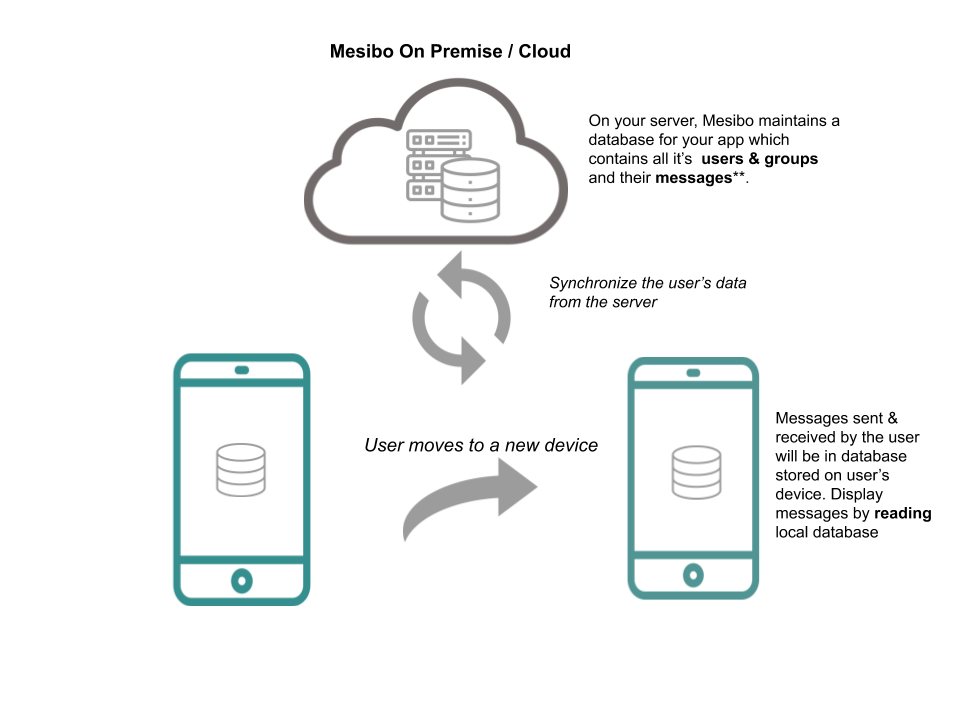
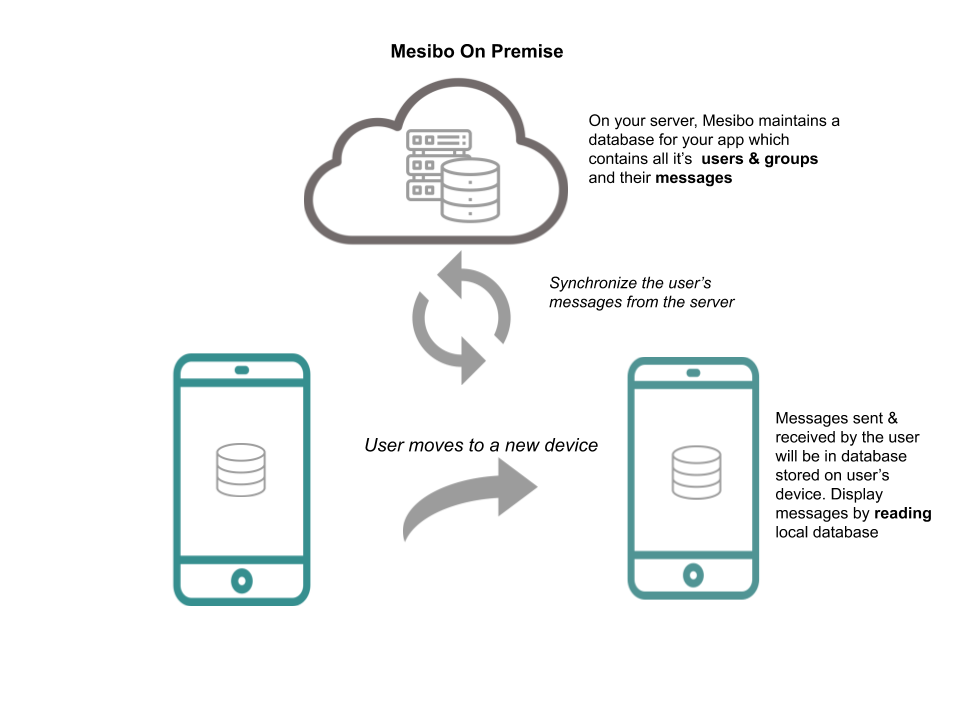
Update sync.md

Changed region(s): [[0.5625, 0.3667, 0.7812, 0.4278], [0.3438, 0.0611, 0.5938, 0.0917]]

diff --git a/synchronization.md b/synchronization.md
@@ -13,10 +13,11 @@ You MUST go through the following prerequisites before you read further.
 
 - Read the [First App]({{ '/documentation/tutorials/get-started/first-app/' | relative_url }}) Guide.
 - Read one of the Android, iOS, JS, etc of this tutorial.
-- Get familiar with [Reading APIs]({{ '/documentation/tutorials/get-started/reading-messages' | relative_url }})
+- Get familiar with [Read APIs]({{ '/documentation/tutorials/get-started/reading-messages' | relative_url }})
+- Run [Mesibo On-Premise](https://mesibo.com/on-premise). See [On-Premise Docs]({{ '/documentation/on-premise' | relative_url }}) for installation instructions and more.
 
 ## Multi-Device Synchronization 
-Mesibo stores the app data (messages & call logs, etc) on a local database on the user's device. To display messages to the user, you need to read messages(Using [Read APIs]({{ '/documentation/tutorials/get-started/reading-messages/#how-to-read-messages' | relative_url }})) from this local database. Now, if the user moves to a new device you will have a brand new database. Your user cannot view the old messages by reading the new database. The messages & other data present in the old database, stored on the old device is not available. So, if you want to read the old data on a new device you need to synchronize the new database with the old database. 
+Mesibo stores your app data (messages & call logs, etc) on a local database on the user's device. To display messages to the user, you need to read messages(Using [Read APIs]({{ '/documentation/tutorials/get-started/reading-messages/#how-to-read-messages' | relative_url }})) from this local database. Now, if the user moves to a new device you will have a brand new database. Your user cannot view the old messages by reading the new database. The messages & other data present in the old database, stored on the old device is not available to the new device. But, if you are using [Mesibo On-Premise]({{ '/documentation/on-premise' | relative_url }}) you can always store messages and call data on your own server. So, whenever a user moves to a new device you can synchronize with your server and get the required messages. To perform this on-demand synchronization, mesibo provides [sync APIs](#using-the-sync-api). 
 ![Device Sync](images/device-sync.png)
 
 ## Synchronization 
@@ -25,11 +26,9 @@ When you use the `read` API you will be accessing the local database stored on t
 Mesibo.ReadDbSession mReadSession = new Mesibo.ReadDbSession("dest", 0, null, this);
 int count = mReadSession.read(100)
 ```
-Once you call `read()`, it reads the local database and checks if there are messages for the user called `"dest"`. It will return the number of messages and you will be getting `count` number of messages for that user through the listener `Mesibo_OnMessage`.  
+Once you call `read()`, it reads the local database and checks if there are messages for the user called `"dest"`. It will return the number of messages and you will be getting so many messages for that user through the listener `Mesibo_OnMessage`. See the section on [Read APIs]({{ '/documentation/tutorials/get-started/reading-messages' | relative_url }}) to know more.  
 
-But when your user logs in on a new device, and you call `read()` for the first time, it will not give you any messages ie; `count` will be `0`. Because the new database will be initially empty and may not contain any messages for the user you have attempted to `read`. You need to sync the database on the new device to include messages for the selected user/group, from the one on the previous device. You may think, you need to transfer all of the data from the previous database to the new one. But, this is not a feasible approach. You only need to `sync` messages for the selected user on demand.
-
-To perform this on-demand synchronization mesibo provides the `sync` API.
+But when your user logs in on a new device, and you call `read()` for the first time, it will not give you any messages ie; The `count` returned will be `0`. This is because the new database will be initially empty and may not contain any messages for the user you have attempted to `read`. You need to sync the database on the new device to include messages for the selected user/group present on your server. One approach to do this will be, to transfer all of the data from your on-premise server's database to the app's local database. This is not recommended. You only need to `sync` messages for the selected user on demand and you can easily achieve this by using mesibo's `sync` API.
 
 ## Using the sync API
 When your call to `read()` returns zero messages, you may request for a `sync` as follows.
@@ -45,7 +44,6 @@ Note that a call to `read()` is synchronous while the call to `sync()` is asynch
 request will be avialble through the listener `on_sync`. The call to `sync` checks messages stored on the mesibo server and transfers those messages to your local database. The number of messages that have been synced will be available as a parameter `count` in the `on_sync` listener. You can read `count` number of messages using `read()`.
 ```cpp
 void on_sync(const void *rs, int count, uint32_t flags){
-	ERRORLOG("=>>>>>> on_sync: rs %p count %d flags 0x% " PRIx32 "  \n", rs, count, flags);
         if(count > 0 && rs != NULL){
         	int c = 0;
                 c = m_api->read((void*)rs, count);
@@ -54,4 +52,7 @@ void on_sync(const void *rs, int count, uint32_t flags){
 ```
 
 ## How sync works
-![Device Sync](images/how-sync-works.png)
+With [Mesibo On-Premise](https://mesibo.com/on-premise) running on your server, mesibo maintains a database for your app which contains all its users, groups, and messages. In your mesibo application,  you will load & display messages by reading from the local database stored on the user’s device. All the messages sent & received by the user to all other users and groups will be updated in the local database. So, when a user logs in with a new device, you have a new local database that you need to update with the messages stored on the server's database. That is, you synchronize the user’s local database from the server database. However, you need not pull all the data from the server's database. You only have a single app user on the device. Whenever your app user needs some data which is not already present on the local database, only then there is a need to sync from the server. 
+
+For example, let's say you are logged in as `User-A` on your app and you need to display the chat history between you - `User-A` and another `User-B`. To do this you will use the `read` API to read messages for the `User-B`. If you are on a new device, and you have never exchanged messages with `User-B` on this device, the `read` API will not return any messages. You have nothing to display! But, if you had chatted with `User-B` earlier on a previous device, your messages will be stored on the server database. You need to access these messages present on the **server database** and restore them onto the **local database**. This is what the `sync` API does. Once the sync is complete, you can then `read` these old messages from the local database. 
+
